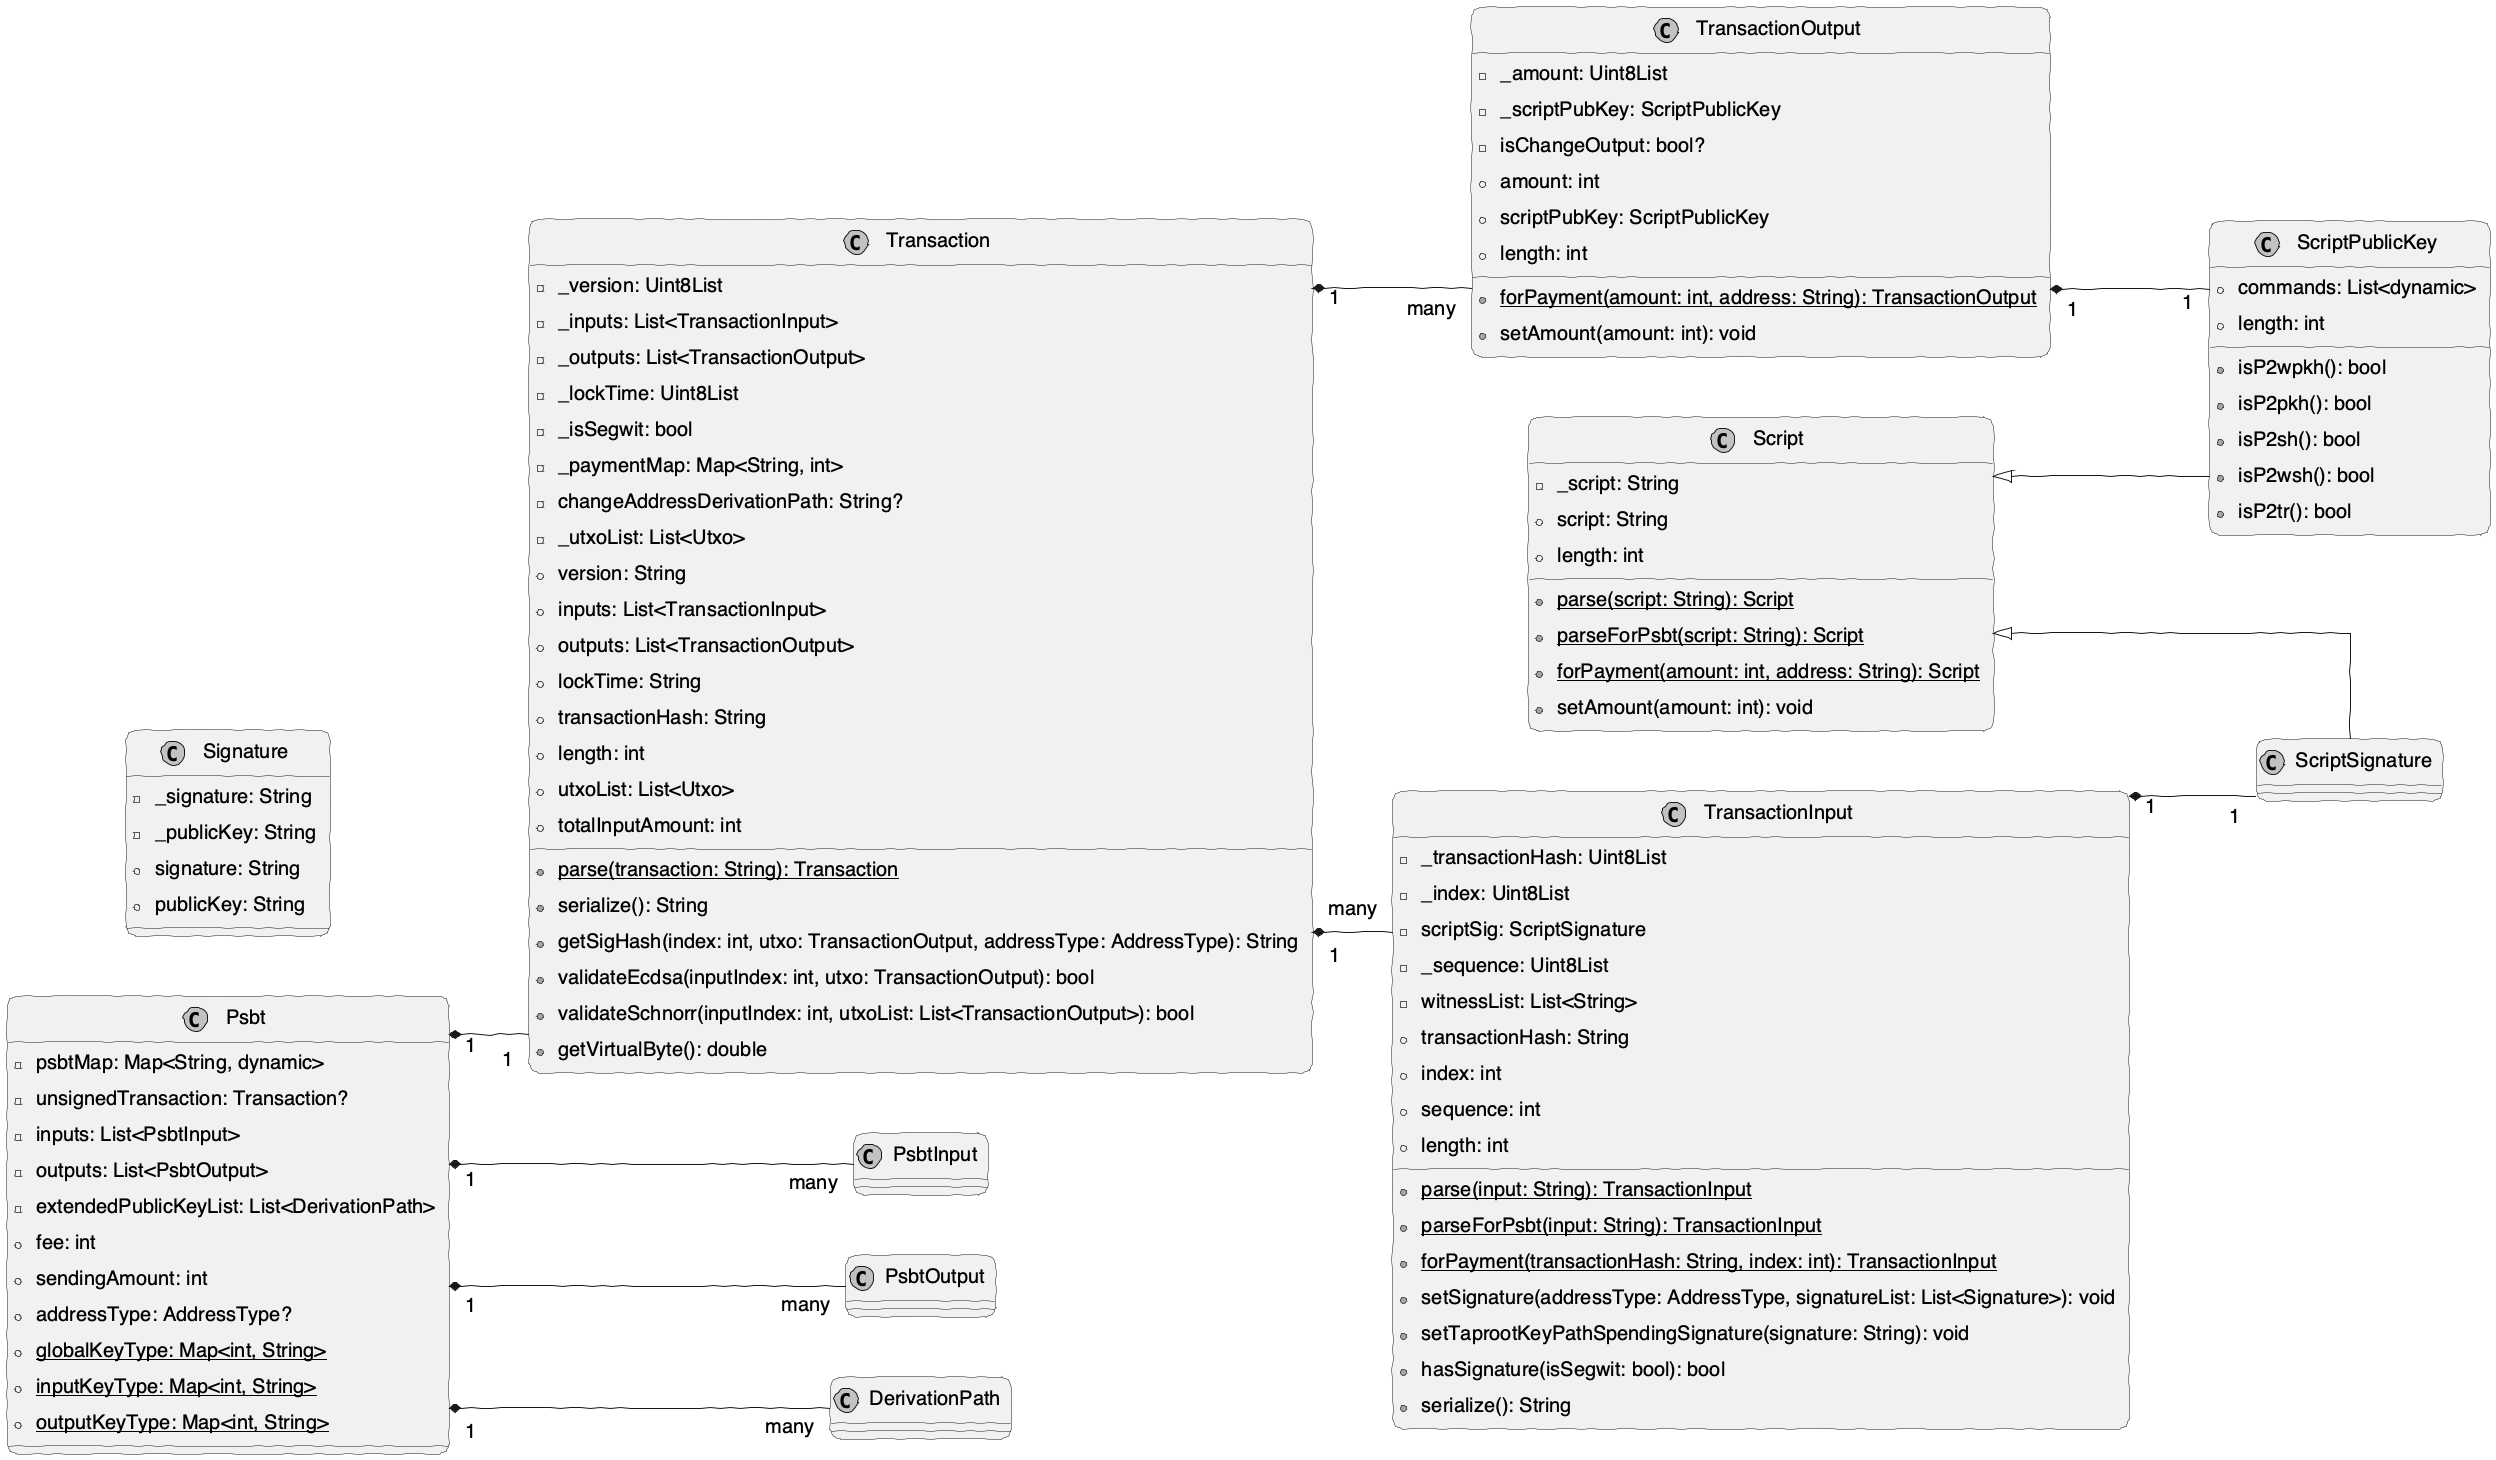
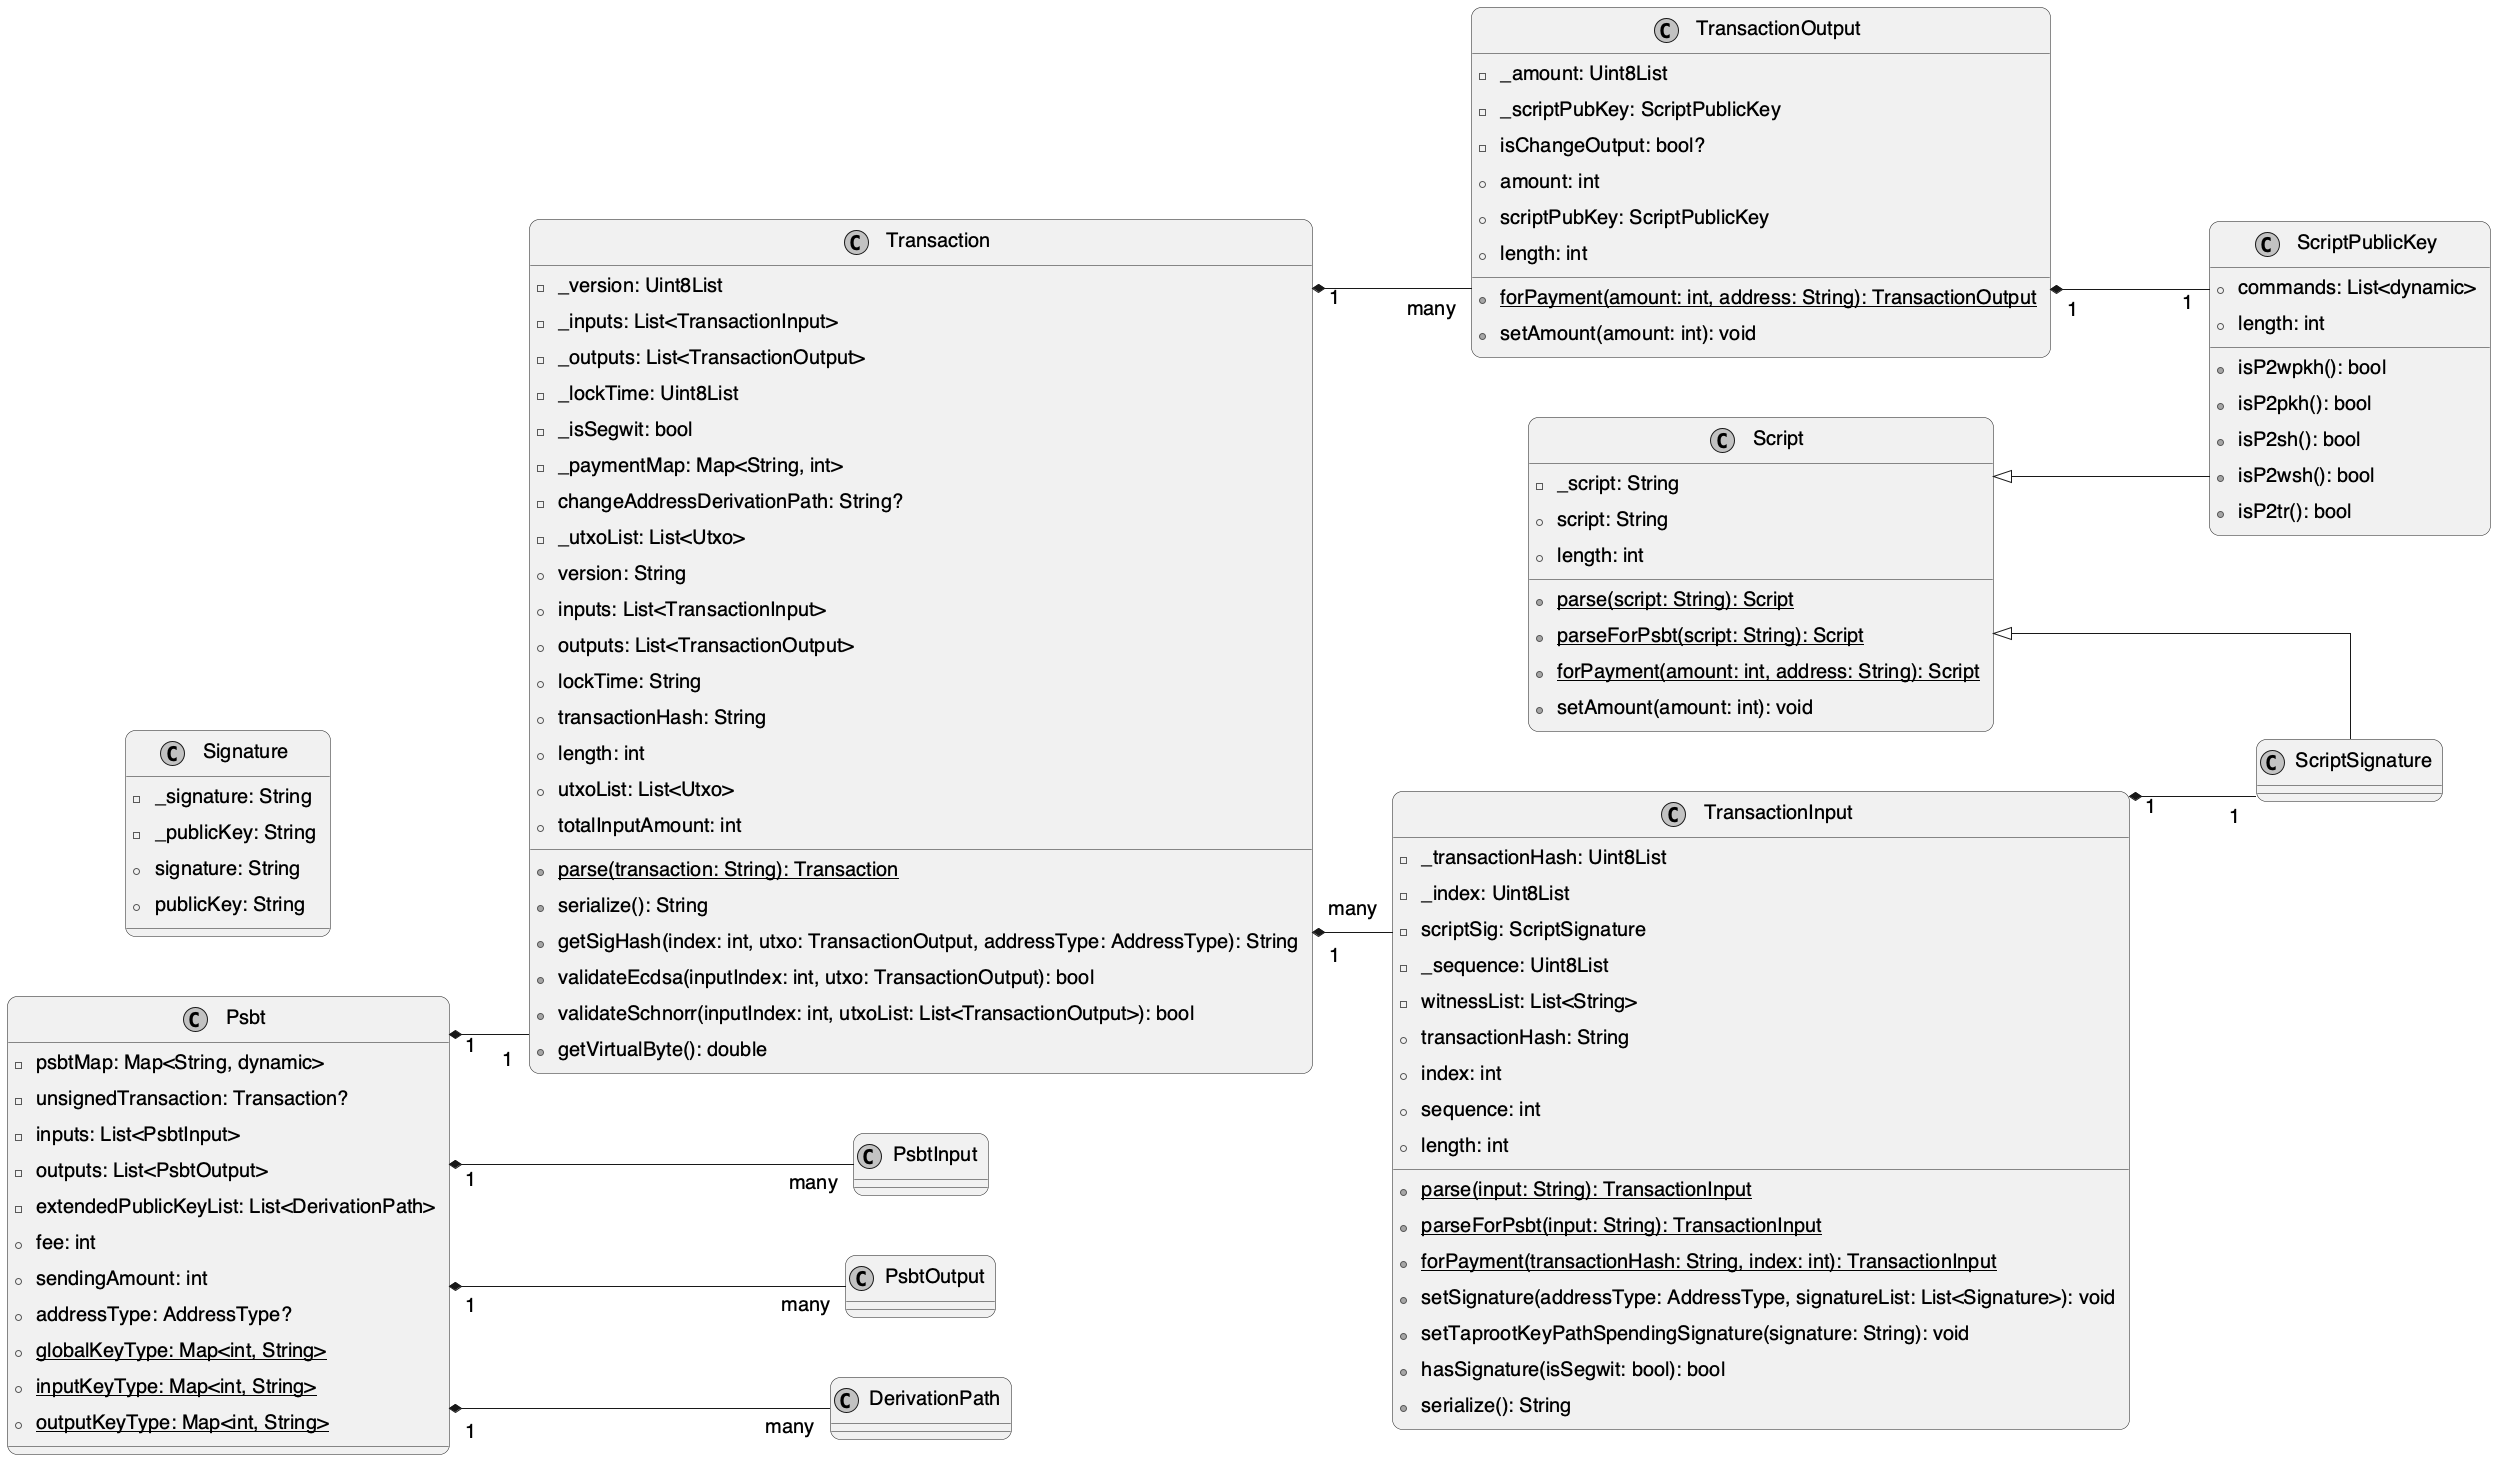
DOC:model update

diff --git a/README.md b/README.md
@@ -27,9 +27,9 @@ You can use the Coconut_lib to create your own air-gap based vault and wallet.
 ## Architecture
 
 - [wallet](https://github.com/noncelab/coconut_lib/blob/main/lib/src/wallet): Provides a cryptography-based key management method. Create two apps instancing the Wallet and Vault classes.
-  <img src="doc/design/wallet_class_diagram.png" width="1300" alt="Wallet Class Diagram">
+[![Wallet Class Diagram](doc/design/wallet_class_diagram.png)](doc/design/wallet_class_diagram.png)
 - [transaction](https://github.com/noncelab/coconut_lib/blob/main/lib/src/transaction): Provides code related to Bitcoin scripts and transactions. Also use PSBT(BIP-0174) to communicate vaults and wallets.
-  <img src="doc/design/transaction_class_diagram.png" width="700" alt="Transaction Class Diagram">
+[![Transaction Class Diagram](doc/design/transaction_class_diagram.png)](doc/design/transaction_class_diagram.png)
 
 > For more development information, visit the [coconut_lib docs](https://pub.dev/documentation/coconut_lib/latest/coconut_lib/coconut_lib-library.html).
 